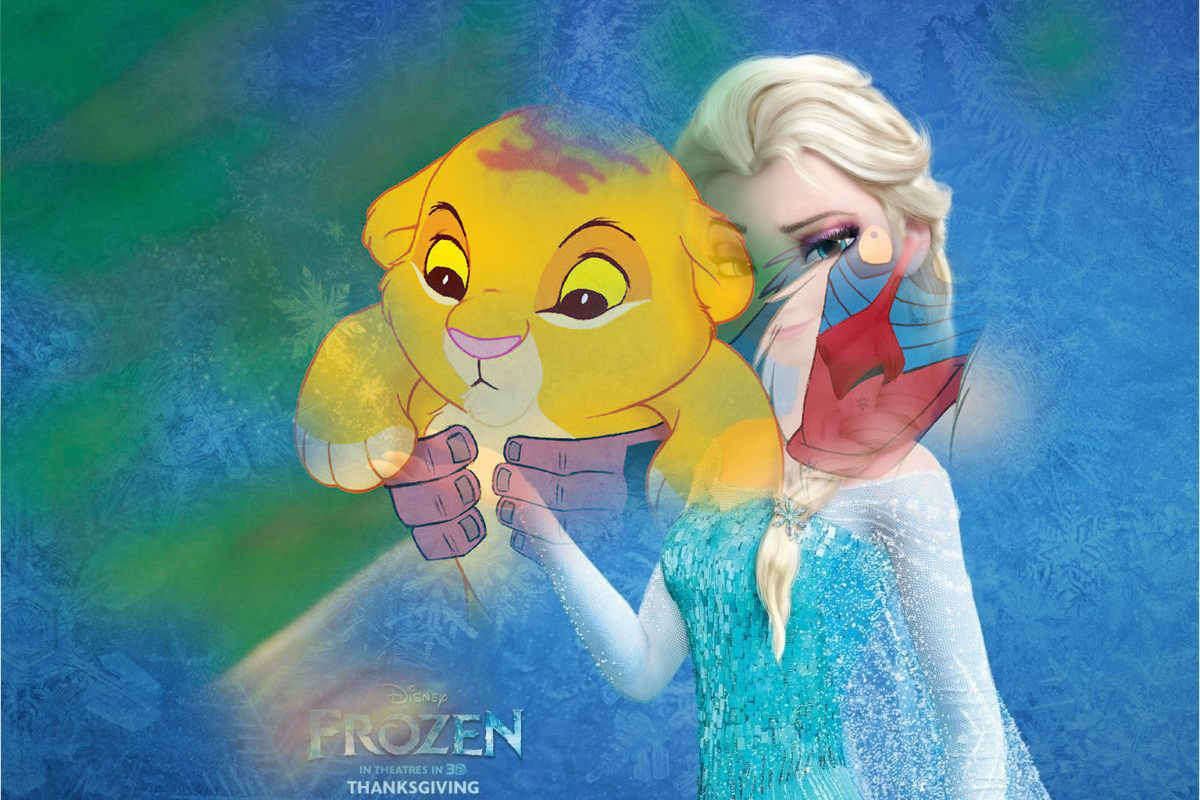
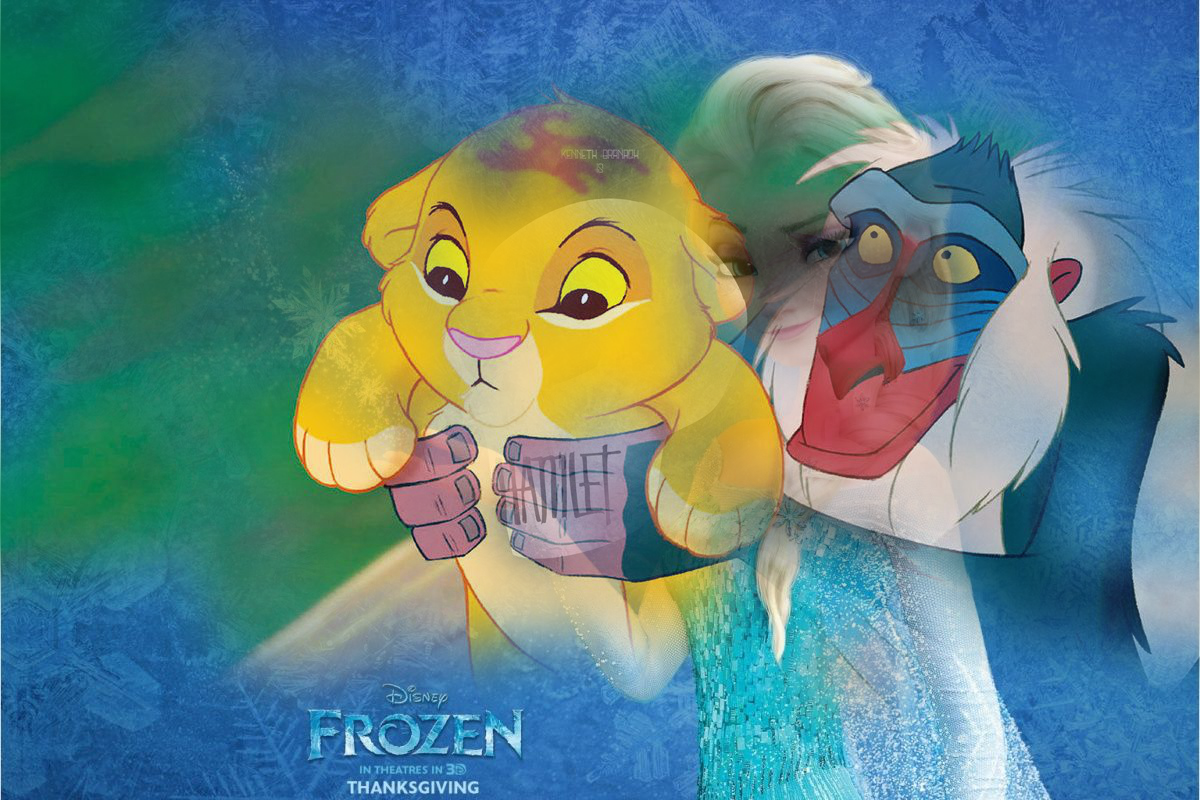
stuff

diff --git a/main/templates/main/pick.html b/main/templates/main/pick.html
@@ -22,6 +22,7 @@
     </head>
 
     <body>
+		<h1>Select an image please</h1>
 		<div id="portfolio">
 			<ul class="portfolio-grid">
 				<li>

diff --git a/main/views.py b/main/views.py
@@ -113,7 +113,7 @@ def scratch_away(request):
 	if filter_count < 3:
 		image2 = Image.open(settings.STATIC_ROOT + "/images/" + "bottom.jpg")
 	else:
-		if filter_count < 6:
+		if filter_count < 8:
 			image2 = Image.open(settings.STATIC_ROOT + "/images/" + "bottom2.png")
 		else:
 			return HttpResponse("No more iterations")
